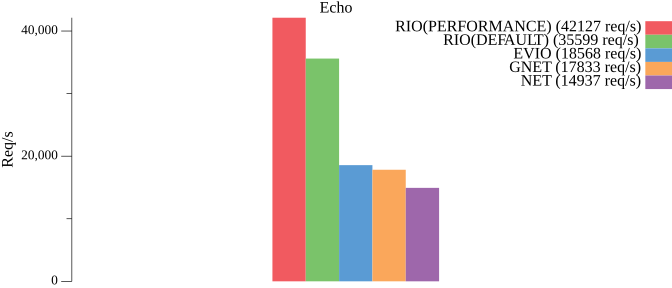
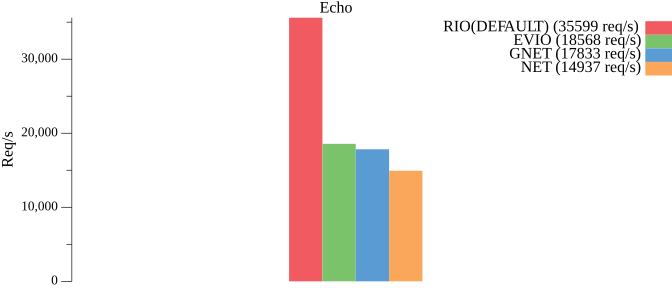
mod bench

diff --git a/README.md b/README.md
@@ -4,7 +4,7 @@
 
 支持协议：`TCP`、`UDP`、`UNIX`、`UNIXGRAM`（`IP`为代理标准库）。
 
-Linux 内核版本需要`>= 5.14`，推荐版本为`>= 6.1`。
+Linux 内核版本需要`>= 5.14`，推荐版本为`>= 6.6`。
 
 ## 性能
 ### 对比测试
@@ -24,30 +24,15 @@ tcpkali --workers 1 -c 50 -T 10s -m "PING" 192.168.100.120:9000
 
 <img src="benchmark/bench_echo.png" width="336" height="144" border="0" alt="http benchmark">
 
-| 种类               | 速率 （pps） | 说明       | 性能    |
-|------------------|----------|----------|-------|
-| RIO(PERFORMANCE) | 42126.6  | 稳定在40000 | 100 % |
-| RIO(DEFAULT)     | 35599.0  | 稳定在35000 | 85 %  |
-| EVIO             | 18568.5  | 稳定在18000 | 44 %  |
-| GNET             | 17832.6  | 稳定在17000 | 43 %  |
-| NET              | 14937.1  | 稳定在14000 | 35 %  |
+| 种类           | 速率 （pps） | 说明       | 性能    |
+|--------------|----------|----------|-------|
+| RIO(DEFAULT) | 35599.0  | 稳定在35000 | 100 % |
+| EVIO         | 18568.5  | 稳定在18000 | 52 %  |
+| GNET         | 17832.6  | 稳定在17000 | 50 %  |
+| NET          | 14937.1  | 稳定在14000 | 42 %  |
 
 <details>
 <summary>详细结果</summary>
-
-```text
------- RIO(PERFORMANCE) ------
-Destination: [192.168.100.120]:9000
-Interface eth0 address [192.168.100.1]:0
-Using interface eth0 to connect to [192.168.100.120]:9000
-Ramped up to 50 connections.
-Total data sent:     416.2 MiB (436411168 bytes)
-Total data received: 414.1 MiB (434172878 bytes)
-Bandwidth per channel: 13.915⇅ Mbps (1739.4 kBps)
-Aggregate bandwidth: 346.990↓, 348.779↑ Mbps
-Packet rate estimate: 42126.6↓, 30867.4↑ (3↓, 26↑ TCP MSS/op)
-Test duration: 10.01 s.
-```
 
 ```text
 ------ RIO(DEFAULT) ------
